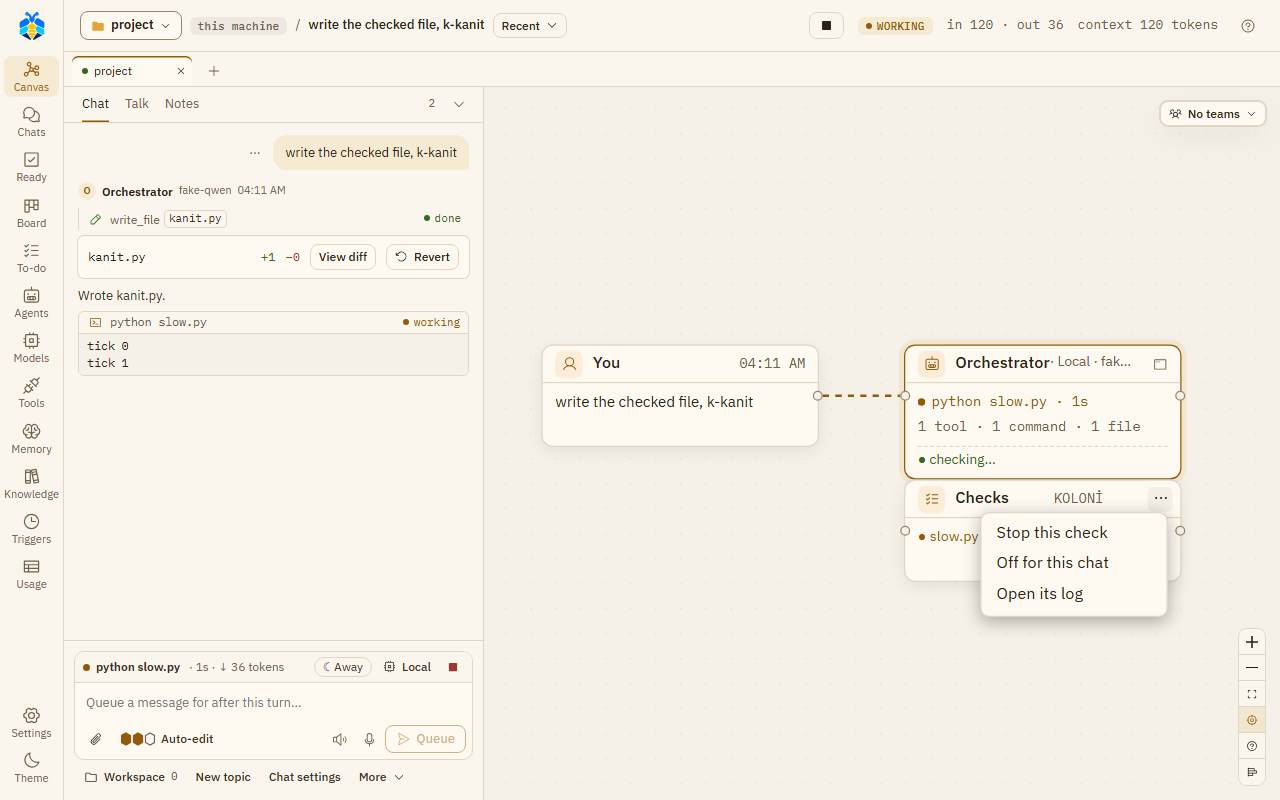
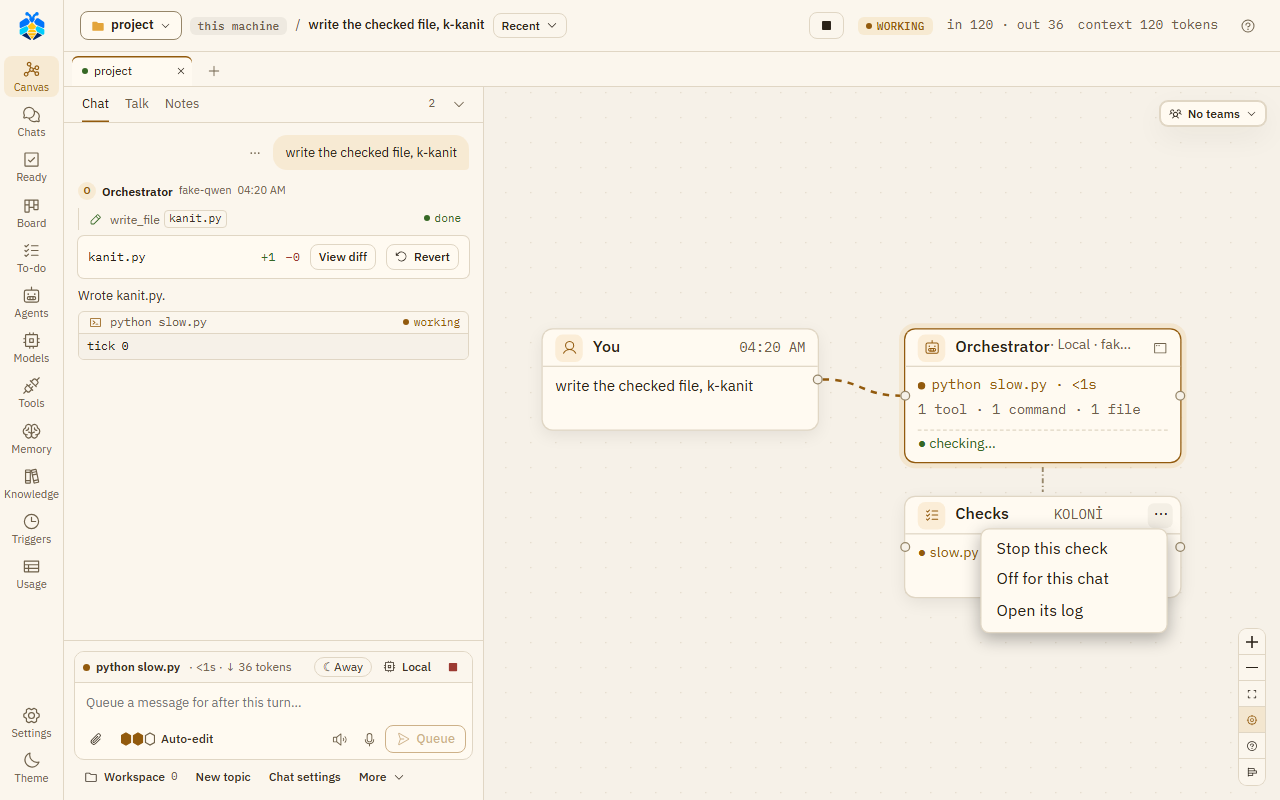
fix(canvas): the Checks node stands a row's gap under the Orchestrator; no round line where none went back; python -c named so
The layout sized the Orchestrator's box without its checked strip ("✓ checked"), so the
Checks node under it touched it; the box is now that much taller (STRIP_H), and the node a
row's gap below, its dashed line short and straight down. The loops the pictures showed were a
"round 1" line drawn round behind both boxes: at a turn's end the rounds are the Checked
section's count - the tests run again on the test KOLONİ asked for are no fix round -, and a
real round's line goes out of the Checks node's right side into the Orchestrator's, its label
beside them. The node names a `python -c` / `node -e` / `bash -c` check by its program and
flag, never by its quoted code. checks-node, checks-running and checks-reviewer retaken.

diff --git a/frontend/src/canvas/checksNode.test.tsx b/frontend/src/canvas/checksNode.test.tsx
@@ -53,18 +53,39 @@ test('the Checked rows are its lines, with their counts where the runner gave th
 })
 
 test('a fix round is a line back to the Orchestrator, and its strip counts it', () => {
-  const state = convState({
+  const passes = {
     runs: [run('r', 'completed')],
     agents: [agent('r', 'completed')],
     toolCalls: [proofCall('p1', 'succeeded'), proofCall('p2', 'succeeded', '2026-10-05T10:01:03Z')],
     commands: [command('c1', 'r', { tool_call_id: 'p1', exit_code: 1 }), command('c2', 'r', { tool_call_id: 'p2', exit_code: 0 })],
-    messages: [checked([row('passed', 'Tests passed', { command: 'python -m pytest -q', counts: { passed: 4, failed: 0, skipped: 0, unit: 'tests' } })])],
-  })
-  const { data, edges, nodes } = drawn(state)
+  }
+  // (Before the Checked section says its rounds: a pass again is one; neither the Fix rounds nor why are known.)
+  const live = drawn(convState(passes))
+  expect(live.data?.rounds).toBe(1)
+  expect(live.edges.find(e => e.round)).toMatchObject({ source: 'checks:r', target: 'agent:r', round: 'round 1' })
+  const passed = row('passed', 'Tests passed', { command: 'python -m pytest -q', counts: { passed: 4, failed: 0, skipped: 0, unit: 'tests' } })
+  const sent = row('note', 'Sent back to fix: 1 of 2 rounds', { kind: 'rounds' })
+  const { data, edges, nodes } = drawn(convState({ ...passes, messages: [checked([sent, passed])] }))
   expect(data?.rounds).toBe(1)
-  // (Before the Checked section says its rounds: neither the Fix rounds nor why are known.)
-  expect(edges.find(e => e.round)).toMatchObject({ source: 'checks:r', target: 'agent:r', round: 'round 1' })
+  expect(edges.find(e => e.round)).toMatchObject({ source: 'checks:r', target: 'agent:r', round: 'round 1 of 2: tests fail' })
   expect((nodes[0].data as AgentData).checked).toBe('✓ checked · 1 round')
+})
+
+test('the tests run again on the test KOLONİ asked for are no fix round: at its end the Checked section counts them', () => {
+  // (0.1.6's pictures: a turn sent back nowhere drew "round 1" round behind both boxes, and its strip said "1 round".)
+  const passed = row('passed', 'Tests passed', { command: 'python -m pytest -q', counts: { passed: 4, failed: 0, skipped: 0, unit: 'tests' } })
+  const { data, edges, nodes } = drawn(
+    convState({
+      runs: [run('r', 'completed')],
+      agents: [agent('r', 'completed')],
+      toolCalls: [proofCall('p1', 'succeeded'), proofCall('p2', 'succeeded', '2026-10-05T10:01:03Z')],
+      commands: [command('c1', 'r', { tool_call_id: 'p1', exit_code: 0 }), command('c2', 'r', { tool_call_id: 'p2', exit_code: 0 })],
+      messages: [checked([passed, row('note', 'No new test: the Orchestrator said “x”', { kind: 'test_ask' })])],
+    }),
+  )
+  expect(data?.rounds).toBe(0)
+  expect(edges.some(e => e.round)).toBe(false)
+  expect((nodes[0].data as AgentData).checked).toBe('✓ checked')
 })
 
 test('two parts failing in one pass are one round, not two; a pass again is one', () => {
@@ -108,6 +129,13 @@ test('the strip says still failing or not checked; the tool is the runner, not p
   expect(toolOf('npx vitest run')).toBe('vitest')
   expect(toolOf('go test ./...')).toBe('go')
   expect(toolOf('npx --no c8 --reporter=json --report-dir ".koloni/tmp/coverage-1" npm test')).toBe('c8')
+  // (Code handed to an interpreter on the line: its program and flag, never its quoted code.)
+  expect(toolOf(`python -c "import time; time.sleep(20); print('3 passed')"`)).toBe('python -c')
+  expect(toolOf(`node -e "require('./check')"`)).toBe('node -e')
+  expect(toolOf('bash -c "make test -m x"')).toBe('bash -c')
+  expect(toolOf('/usr/bin/python3 -c "print(1)"')).toBe('python3 -c')
+  expect(toolOf('pytest -c pytest.ini -q')).toBe('pytest')
+  expect(toolOf('python -m pytest -c pytest.ini')).toBe('pytest')
 })
 
 test('S9: the coverage row is a line like the others, and no test run of its own', () => {

diff --git a/frontend/src/canvas/checksNode.ts b/frontend/src/canvas/checksNode.ts
@@ -34,12 +34,21 @@ export interface ChecksData extends Record<string, unknown> {
   recipe: boolean
 }
 
-/** A command's tool, short: "pytest" of `python -m pytest -q`, "c8" of S9's `npx --no c8 …`, else its first word. */
+/**
+ * A command's tool, short: "pytest" of `python -m pytest -q`, "c8" of S9's `npx --no c8 …`, "python -c" of `python -c "…"`
+ * (never its quoted code), else its first word.
+ */
 export function toolOf(command: string): string {
   const words = command.split(/\s+/).filter(Boolean)
   const after = words.indexOf('-m')
+  const inline = inlineAt(words)
+  if (inline > 0 && (after < 0 || inline < after)) return `${words[inline - 1].split(/[\\/]/).at(-1)} ${words[inline]}`
   return (after >= 0 ? words[after + 1] : words.find(word => !word.startsWith('-') && !/^(npx|uv|poetry|run|python[\d.]*|py)$/.test(word))) ?? command
 }
+
+/** Where an interpreter is handed its code on the line - `python -c`, `node -e`, `bash -c` -; -1 for none. */
+const inlineAt = (words: string[]) =>
+  words.findIndex((word, at) => at > 0 && /^-[ce]$/.test(word) && /^(python[\d.]*|py|node|bash|sh|zsh|pwsh|ruby|perl)(\.exe)?$/i.test(words[at - 1].split(/[\\/]/).at(-1) ?? ''))
 
 export type Line = { state: Row['state']; text: string; since?: string | null }
 
@@ -92,7 +101,7 @@ export function linesOf(rows: Row[]): Line[] {
   return lines
 }
 
-/** The end check's passes: a new one where a run of the pass so far comes again. Each after the first followed a fix round (as `rounds` is counted on the server). */
+/** The end check's passes: a new one where a run of the pass so far comes again. Each after the first followed a fix round - or the ask for a test (`roundsOf`). */
 function passesOf(calls: { arguments: string }[]): number {
   let passes = calls.length ? 1 : 0
   let seen = new Set<string>()
@@ -106,6 +115,9 @@ function passesOf(calls: { arguments: string }[]): number {
   }
   return passes
 }
+
+/** Its fix rounds: at its end the Checked section's count (the tests run again on a test KOLONİ asked for are none), before it each pass again. */
+const roundsOf = (checked: Message | undefined, said: number, calls: { arguments: string }[]) => (checked ? said : Math.max(passesOf(calls) - 1, 0))
 
 /** The Orchestrator's strip: "✓ checked · 1 round", "✓ checked · related only" (the whole suite stopped or not run), "✗ still failing", "not checked" - or nothing before its end. */
 export function stripOf(data: ChecksData): string | null {
@@ -136,7 +148,7 @@ export function checksNode(state: ConvState, run: Run, nodes: GraphNode[], edges
   if (off) return notChecked(nodes, lead.id, OFF_STRIPS[off.kind])
   const at = calls.find(c => c.status === 'running')
   const said = roundsSaid(checked)
-  const rounds = Math.max(passesOf(calls) - 1, said.n)
+  const rounds = roundsOf(checked, said.n, calls)
   const lines = linesOf(checked?.checked ?? [])
   const data: ChecksData = {
     runId: run.id,

diff --git a/frontend/src/canvas/lines.test.ts b/frontend/src/canvas/lines.test.ts
@@ -1,9 +1,9 @@
 import { expect, test } from 'vitest'
 import type { Attachment, ChannelMessage, ChatTeam, ChatTeamState, Discussion, DiscussionPost, Room, Team } from '../api/types'
-import { agent, command, conversation, convState, note, run, toolCall, userMessage } from '../test-fixtures'
+import { agent, assistantMessage, command, conversation, convState, note, run, toolCall, userMessage } from '../test-fixtures'
 import { type AgentData, type RoundData, type TeamData, deriveGraph } from './deriveGraph'
 import { foldAll, foldGraph, unfold } from './foldGraph'
-import { ARC_ROOM, ARC_STEP, DOOR_PAD, IN_GAP, NODE_H, NODE_W, ROUND_H, ROW_GAP, TEAM_HEAD, TEAM_OUT, TEAM_PAD, arcPath, arcWay, arced, bendOf, crossTalk, crosses, frameLine, headOf, laneLegs, wallsOf, layoutGraph, memberFrame, memberLine } from './layout'
+import { ARC_ROOM, ARC_STEP, DOOR_PAD, IN_GAP, NODE_H, NODE_W, ROUND_H, ROW_GAP, STRIP_H, TEAM_HEAD, TEAM_OUT, TEAM_PAD, arcPath, arcWay, arced, bendOf, crossTalk, crosses, frameLine, headOf, laneLegs, wallsOf, layoutGraph, memberFrame, memberLine } from './layout'
 import { oneTurn } from './turns'
 
 // K-canvas-dili (mockup W): a team's work line left to right in its recipe's order, one fork into a step and one join
@@ -753,4 +753,18 @@ test('S5c: in a recipe’s turn the Checks node is the recipe’s last step - in
   // Folded, the frame holds it: not drawn, its lines go to the frame.
   const folded = foldGraph(deriveGraph(state), { 'team:r:web': false })
   expect(folded.nodes.some(node => node.kind === 'checks')).toBe(false)
+})
+
+test('the Checks node stands a row’s gap under the Orchestrator, below its checked strip; its line straight down', () => {
+  // (The strip made the Orchestrator's box taller than the layout's: the Checks node touched it - 0.1.6's pictures.)
+  const rows = [{ kind: 'tests', state: 'passed' as const, text: 'Tests passed: pytest -q - 4 passed', command: 'pytest -q', guessed: false, started_at: null, counts: null }]
+  const checked = { ...assistantMessage('k', 'r', 'x'), role: 'checked' as const, agent_id: null, checked: rows }
+  const g = deriveGraph(convState({ runs: [run('r', 'completed')], agents: [agent('r', 'completed')], messages: [checked] }))
+  const { positions, sizes } = layoutGraph(g.nodes, g.edges)
+  const lead = { ...positions['agent:r'], ...sizes['agent:r'] }
+  expect(lead.height).toBe(NODE_H + STRIP_H)
+  const box = positions['checks:r']
+  expect(box.x).toBe(lead.x)
+  expect(box.y).toBeGreaterThanOrEqual(lead.y + lead.height + ROW_GAP)
+  expect(g.edges.filter(e => e.target === 'checks:r')).toEqual([expect.objectContaining({ source: 'agent:r', plan: true })])
 })

diff --git a/frontend/src/canvas/layout.ts b/frontend/src/canvas/layout.ts
@@ -41,6 +41,10 @@ export const AT_ONCE_ROW = 3
 export const ROUND_W = 2 * NODE_W + ROW_GAP
 export const ROUND_H = 32
 export const CHIP_H = 32
+/** The Orchestrator's checked strip under its box's lines ("✓ checked · 1 round"; canvas: `.node-strip`), which makes it taller. */
+export const STRIP_H = 26
+/** An agent's box: a chip in a round, else a node - taller by its checked strip where it has one. */
+const agentH = (data: AgentData) => (data.chip ? CHIP_H : NODE_H + (data.checked ? STRIP_H : 0))
 
 // K-shared-bagli, batch-26 (the user's): what a team shared, noted and remembered is a small card at its frame's
 // top-right - its width, a line for whose it is, a row for each thing, its padding and border - joined by a very short
@@ -125,7 +129,7 @@ export function layoutGraph(nodes: GraphNode[], edges: GraphEdge[] = []): Layout
   const box = (group: GraphNode): Size => {
     const held = inside.get(group.id) ?? []
     let size: Size
-    if (group.kind === 'agent') size = { width: NODE_W, height: (group.data as AgentData).chip ? CHIP_H : NODE_H }
+    if (group.kind === 'agent') size = { width: NODE_W, height: agentH(group.data as AgentData) }
     else if (group.kind === 'team') size = { width: TEAM_W, height: Math.max(TEAM_SHUT_H, cardRoom(group)) } // (only a folded one is placed as a box)
     else if (held.length === 0) size = { width: NODE_W, height: FILES_HEAD } // ("6 files", folded)
     else {

diff --git a/frontend/src/canvas/CanvasView.tsx b/frontend/src/canvas/CanvasView.tsx
@@ -688,6 +688,9 @@ export function CanvasView({ state, selectedId, onSelect, onOpenNode, turnId = n
    * inside the frames' left wall (React Flow's curve cut there too); route it left of the frames if that is seen.
    */
   const looseLine = (e: GraphEdge, s: Rect, t: Rect, data: LineData): Partial<Edge> => {
+    // A fix round, from the Checks node back up to the Orchestrator over it: out of its right side and in at the
+    // Orchestrator's, its label beside them - not round behind both boxes to the Orchestrator's left dot.
+    if (e.round && byId.get(e.source)?.kind === 'checks') return { targetHandle: 'side-in' }
     const fromFrame = byId.get(e.source)?.kind === 'team'
     if (e.messages && (e.talk || !fromFrame)) return { type: 'lane', data }
     // (Not a line moved onto a frame: the frame spans the column of any agent under it, so it would seem stacked.)

diff --git a/README.md b/README.md
@@ -44,7 +44,7 @@ your code to its own service, as it always did. KOLONİ is an alpha: expect roug
 </tr>
 <tr>
 <td width="50%"><img src="docs/images/checked-review.png" alt="The Checked section under an answer: Tests passed: python check.py - 2 passed; Review: Reviewer - MERGE, no findings"><br><sub><b>Checked.</b> Under the answer, what KOLONİ itself ran and found - from its records, never the model's word.</sub></td>
-<td width="50%"><img src="docs/images/checks-node.png" alt="The canvas: the Orchestrator's box says checked · 1 round, and the Checks node under it lists each line"><br><sub><b>The Checks node.</b> The same lines on the canvas; its ⋯ menu stops a check or turns it off for the chat.</sub></td>
+<td width="50%"><img src="docs/images/checks-node.png" alt="The canvas: the Orchestrator's box says checked, and the Checks node under it lists each line"><br><sub><b>The Checks node.</b> The same lines on the canvas; its ⋯ menu stops a check or turns it off for the chat.</sub></td>
 </tr>
 <tr>
 <td colspan="2"><img src="docs/diagrams/proven-finish.svg" alt="Proven finish: the related tests, the whole suite after the answer, documents, slides and pages, a Reviewer's look, a test for the change, the live try; a failure goes back to be fixed, then a stronger model; and where Settings sets each part"><br><sub><b>Proven finish.</b> What KOLONİ checks before an answer ends a turn that changed your project, and where you set each part.</sub></td>

diff --git a/docs/use/checked.md b/docs/use/checked.md
@@ -645,7 +645,7 @@ it, up to 16) is given to each of KOLONİ's runs where its runner reads it: pyte
 
 ## On the canvas
 
-![The canvas after a checked turn: the Orchestrator's box says checked · 1 round, and under it the Checks node lists check.py · 2 passed, No review and No new test](../images/checks-node.png)
+![The canvas after a checked turn: the Orchestrator's box says checked, and a short line down from it the Checks node lists check.py · 2 passed, No review and No new test](../images/checks-node.png)
 
 A checked turn has a **Checks** node under its Orchestrator. While KOLONİ's test run works, it
 shows the tool and how long it has run; once the turn is over, each line of the Checked section,
